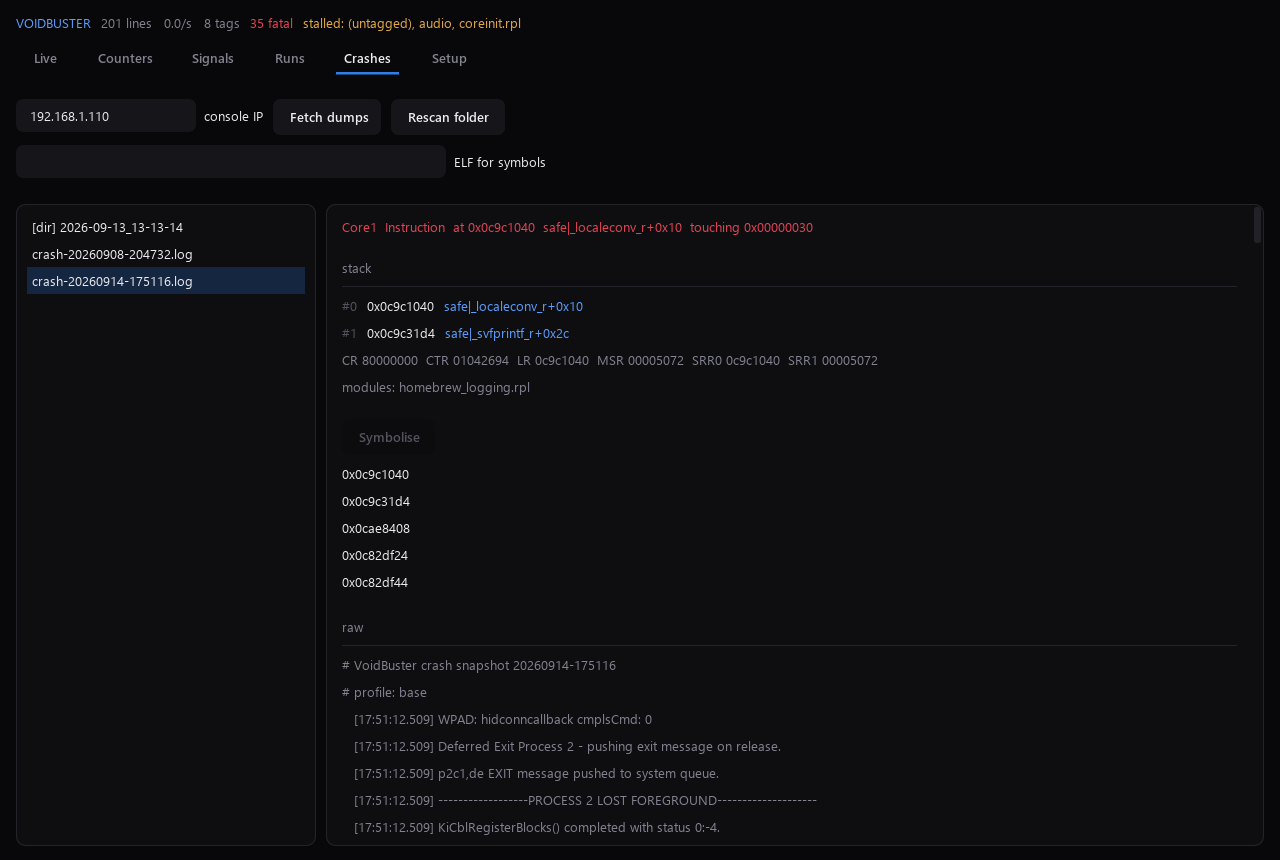
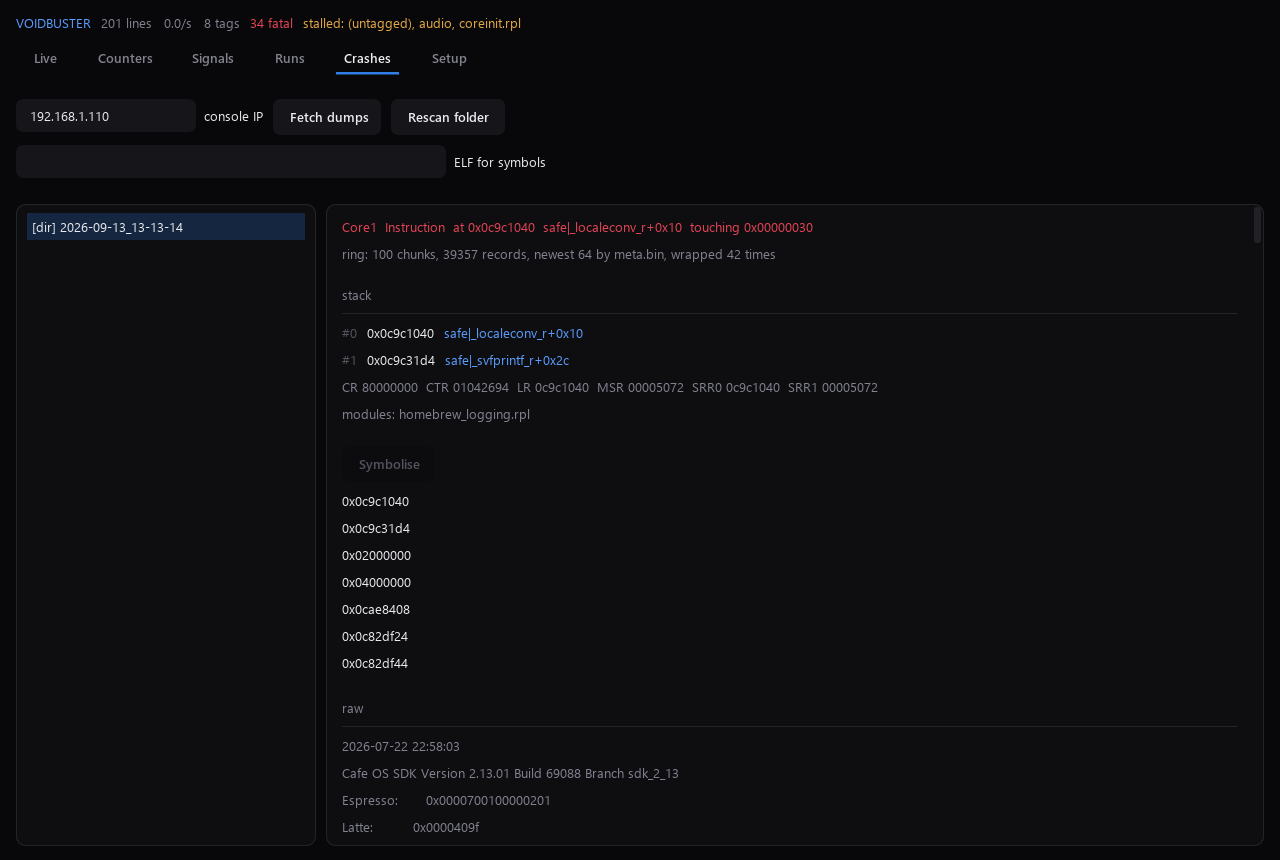
Order the ring from meta.bin, and ship the lighthouse profile again
meta.bin is a big-endian count of chunks written since the ring was created, so
the newest chunk is meta % 100 and the order follows from it - 4264 means chunk
64 and 42 laps, which matches the seam found independently from the timestamps.
Preferred over reading dates because it does not depend on the content being
readable: a chunk that is binary or carries no date is misplaced by any
content-based ordering and ordered correctly by this. The seam remains the
fallback, and the dump view now names which method was used.

The profile was only ever meant to leave the README, not the app.

Changed region(s): [[0.0, 0.2419, 0.6875, 0.5744], [0.25, 0.6047, 0.5938, 0.9674], [0.2812, 0.2721, 0.5938, 0.3023]]

diff --git a/voidbuster/syslog.py b/voidbuster/syslog.py
@@ -122,29 +122,62 @@ def read_chunks(directory):
     return chunks
 
 
-def order(chunks):
-    """Rotate the ring so the oldest chunk is first.
+def read_meta(directory):
+    """The ring's write counter, or None.
 
-    A round-robin buffer read in index order is already chronological apart
-    from exactly one step: the seam where the newest chunk is followed by the
-    oldest. Finding that seam and rotating is exact, and unlike sorting it
-    copes with the many chunks that share a first timestamp.
+    meta.bin is four big-endian bytes counting chunks written since the ring
+    was created - 4264 in a dump that had wrapped 42 times. The newest chunk is
+    therefore `meta % 100`, and the whole order follows from it.
 
-    If more than one seam appears - a dump that was interrupted, or clocks that
-    went backwards for their own reasons - this falls back to a stable sort,
-    which is merely a good guess, and says so via `seam` being None.
+    This is worth preferring over reading the timestamps even though the
+    timestamps usually work, because it does not depend on the content being
+    readable at all: a chunk that is binary, truncated or simply has no date in
+    it is silently misplaced by any content-based ordering, and is ordered
+    correctly by this.
+    """
+    path = Path(directory) / "meta.bin"
+    try:
+        raw = path.read_bytes()
+    except OSError:
+        return None
+    if len(raw) != 4:
+        return None
+    return int.from_bytes(raw, "big")
+
+
+def order(chunks, meta=None):
+    """Put the ring in order, oldest first.
+
+    Returns (ordered, newest_index, how). `how` names the evidence used, which
+    the UI reports: "meta.bin" is authoritative, "seam" is derived from the one
+    point where the clock goes backwards, and "sorted" is a last-resort guess
+    worth saying out loud.
     """
     live = [c for c in chunks if not c.empty()]
     if len(live) < 2:
-        return live, None
+        return live, (live[0].index if live else None), "trivial"
+
+    if meta is not None:
+        newest = meta % len(chunks) if chunks else None
+        by_index = {c.index: c for c in live}
+        if newest in by_index:
+            size = len(chunks)
+            rotated = [by_index[(newest + 1 + i) % size]
+                       for i in range(size) if (newest + 1 + i) % size in by_index]
+            if rotated:
+                return rotated, newest, "meta.bin"
+
+    # No usable meta.bin. A round-robin buffer read in index order is already
+    # chronological apart from exactly one step - the seam where the newest
+    # chunk is followed by the oldest - so find that and rotate.
     keys = [c.key() for c in live]
     seams = [i for i in range(len(keys) - 1) if keys[i + 1] < keys[i]]
     if len(seams) == 1:
         cut = seams[0] + 1
-        return live[cut:] + live[:cut], live[seams[0]].index
+        return live[cut:] + live[:cut], live[seams[0]].index, "seam"
     if not seams:
-        return live, live[-1].index
-    return sorted(live, key=Chunk.key), None
+        return live, live[-1].index, "index order"
+    return sorted(live, key=Chunk.key), None, "sorted"
 
 
 def split_records(text):
@@ -201,18 +234,23 @@ def assemble(directory):
     chunks = read_chunks(directory)
     if not chunks:
         return "", {"chunks": 0, "error": "no numbered chunk files in " + str(directory)}
-    ordered, seam = order(chunks)
+    meta = read_meta(directory)
+    ordered, newest, how = order(chunks, meta)
     text = "".join(decode(c.raw) for c in ordered)
     info = {
         "dir": str(directory),
         "chunks": len(chunks),
         "used": len(ordered),
         "bytes": sum(len(c.raw) for c in ordered),
-        "seam": seam,
+        "meta": meta,
+        "laps": (meta // len(chunks)) if (meta and chunks) else None,
+        "how": how,
+        "seam": newest,
         "ordered": [c.index for c in ordered],
-        "newest": ordered[-1].index if ordered else None,
+        "newest": newest,
         "records": sum(c.records for c in ordered),
-        "certain": seam is not None,
+        # "sorted" is the only outcome that is a guess rather than a reading.
+        "certain": how != "sorted",
     }
     return text, info
 

diff --git a/voidbuster/gui.py b/voidbuster/gui.py
@@ -678,11 +678,13 @@ class App:
         imgui.text_colored(t.danger, dump.headline())
         info = dump.info or {}
         if info.get("chunks"):
-            order = "seam at chunk %s" % info["seam"] if info.get("certain") \
-                else "order inferred - no single seam found"
-            imgui.text_colored(t.text_dim,
-                               "ring: %d chunks, %d records, %s"
-                               % (info["chunks"], info.get("records", 0), order))
+            laps = "" if info.get("laps") is None else ", wrapped %d times" % info["laps"]
+            # How the order was arrived at is part of the reading: meta.bin is
+            # authoritative, a seam is inferred, and a sort is a guess.
+            imgui.text_colored(t.text_dim if info.get("certain") else t.warn,
+                               "ring: %d chunks, %d records, newest %s by %s%s"
+                               % (info["chunks"], info.get("records", 0),
+                                  info.get("newest"), info.get("how", "?"), laps))
         stack = dump.stack()
         if stack:
             imgui.dummy(ImVec2(0, 4))

diff --git a/voidbuster/cli.py b/voidbuster/cli.py
@@ -171,10 +171,11 @@ def run(argv=None):
         print(dump.headline())
         info = dump.info or {}
         if info.get("chunks"):
-            print("  ring: %d chunks, %d records, %s"
-                  % (info["chunks"], info.get("records", 0),
-                     ("seam at chunk %s" % info["seam"]) if info.get("certain")
-                     else "order inferred - no single seam"))
+            print("  ring: %d chunks, %d records, newest %s (%s)%s"
+                  % (info["chunks"], info.get("records", 0), info.get("newest"),
+                     info.get("how", "?"),
+                     ("" if info.get("laps") is None
+                      else ", wrapped %d times" % info["laps"])))
         for i, f in enumerate(dump.stack()):
             print("  #%-2d 0x%08x  %s" % (i, f.lr, f.label() or ""))
         if dump.spr:

diff --git a/README.md b/README.md
@@ -175,10 +175,20 @@ things defeat a naive reader, and all three are handled here:
 - **It is a directory, and the fetch has to recurse.** A flat listing that keeps
   `*.txt` finds nothing at all.
 - **The ring has wrapped.** Read in filename order the log jumps backwards in
-  the middle. VoidBuster finds the seam — the single point where the clock goes
-  back — and rotates, so the exception ends up where it belongs, at the end.
-  Where no single seam exists the order is a best guess, and the tab says so
-  rather than pretending.
+  the middle. `meta.bin` is a big-endian count of chunks written since the ring
+  was created, so the newest chunk is `meta % 100` and the order follows:
+
+  ```
+  meta = 4264   →  newest = 4264 % 100 = 64,  wrapped 42 times
+  order = [(meta + 1 + i) % 100 for i in range(100)]   # 65 … 99, 0 … 64
+  ```
+
+  That is preferred over reading timestamps because it does not depend on the
+  content being readable: a chunk that is binary or simply has no date in it is
+  silently misplaced by any content-based ordering. When `meta.bin` is missing
+  VoidBuster falls back to finding the seam — the one point where the clock
+  goes backwards — and says which method it used, so a guess never passes for
+  a reading.
 - **Records are separated by CR, not LF**, and each is prefixed with its own
   `HH;MM;SS;mmm:` clock. Splitting on newlines yields one enormous line per
   chunk and every downstream parser gives up.
@@ -190,7 +200,7 @@ python voidbuster.py --read-crash crash_logs/2026-09-13_13-13-14
 
 ```
 Core1  Instruction  at 0x0c9c1040  safe|_localeconv_r+0x10  touching 0x00000030
-  ring: 100 chunks, 39357 records, seam at chunk 64
+  ring: 100 chunks, 39357 records, newest 64 (meta.bin), wrapped 42 times
   #0  0x0c9c1040  safe|_localeconv_r+0x10
   #1  0x0c9c31d4  safe|_svfprintf_r+0x2c
 ```
